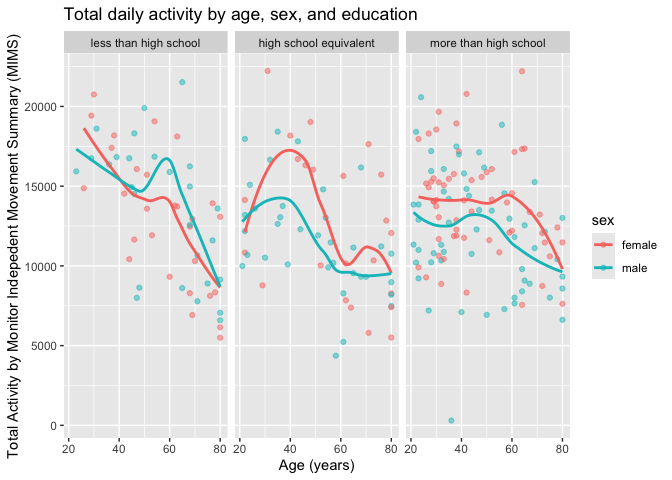
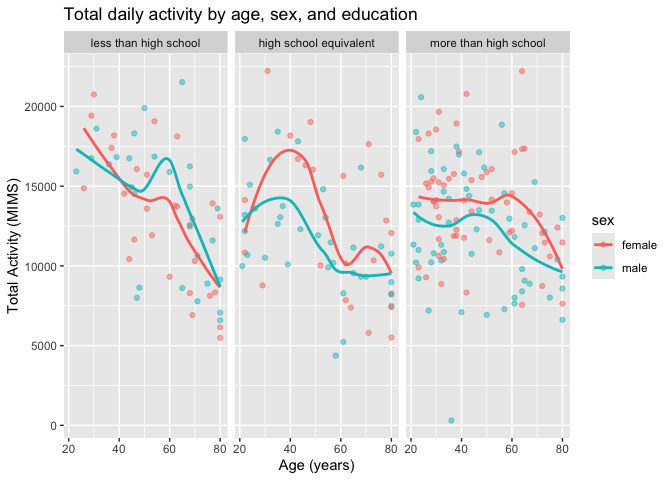
last data viz for problem 2

Changed region(s): [[0.0, 0.0625, 0.0312, 0.9688]]

diff --git a/p8105_hw3_abj2136.md b/p8105_hw3_abj2136.md
@@ -121,7 +121,7 @@ combined_accel |>
   labs(
     title = "Total daily activity by age, sex, and education",
     x = "Age (years)",
-    y = "Total Activity by Monitor Indepedent Movement Summary (MIMS)"
+    y = "Total Activity (MIMS)"
   )
 ```
 
@@ -149,3 +149,38 @@ women follow a similar pattern, but among those with less than a high
 school education the men typically have higher total activity (after age
 40), while women have higher total activity among the other two
 education groups.
+
+## 24 hr activity
+
+``` r
+combined_accel |> 
+  ggplot(aes(x = minute, y = mims_value, color = sex)) +
+  geom_point(alpha = .5, size = .5) +
+  geom_smooth(aes(linetype = sex), se = FALSE, color = "black") +
+  facet_grid(. ~ education) +
+  scale_x_continuous(
+    breaks = c(240, 480, 720, 960, 1200, 1440),
+    labels = c("4", "8", "12", "16", "20", "24")
+  ) +
+  labs(
+    title = "24 hour activity time course by education level",
+    x = "Time (hour)",
+    y = "Activity (MIMS)"
+  )
+```
+
+    ## `geom_smooth()` using method = 'gam' and formula = 'y ~ s(x, bs = "cs")'
+
+![](p8105_hw3_abj2136_files/figure-gfm/unnamed-chunk-7-1.png)<!-- -->
+
+I changed the trend lines from the colors associated with sex to black
+because otherwise the lines blended into the points and the trend wasn’t
+visible.
+
+Based on the graph, activity thoughout the day is simialr across sex and
+education level. Activity, measured by MIMS,reaches its lowest point
+around hour 4 of the day (4 am), and then begins to increase. Activity
+among all groups peaks between 8-10 am and then remains relatively
+constant until hour 20 (8 pm), then it decreases to about the same level
+as hour 0. This makes sense, as people are sleeping in the overnight and
+moving around during the day.
